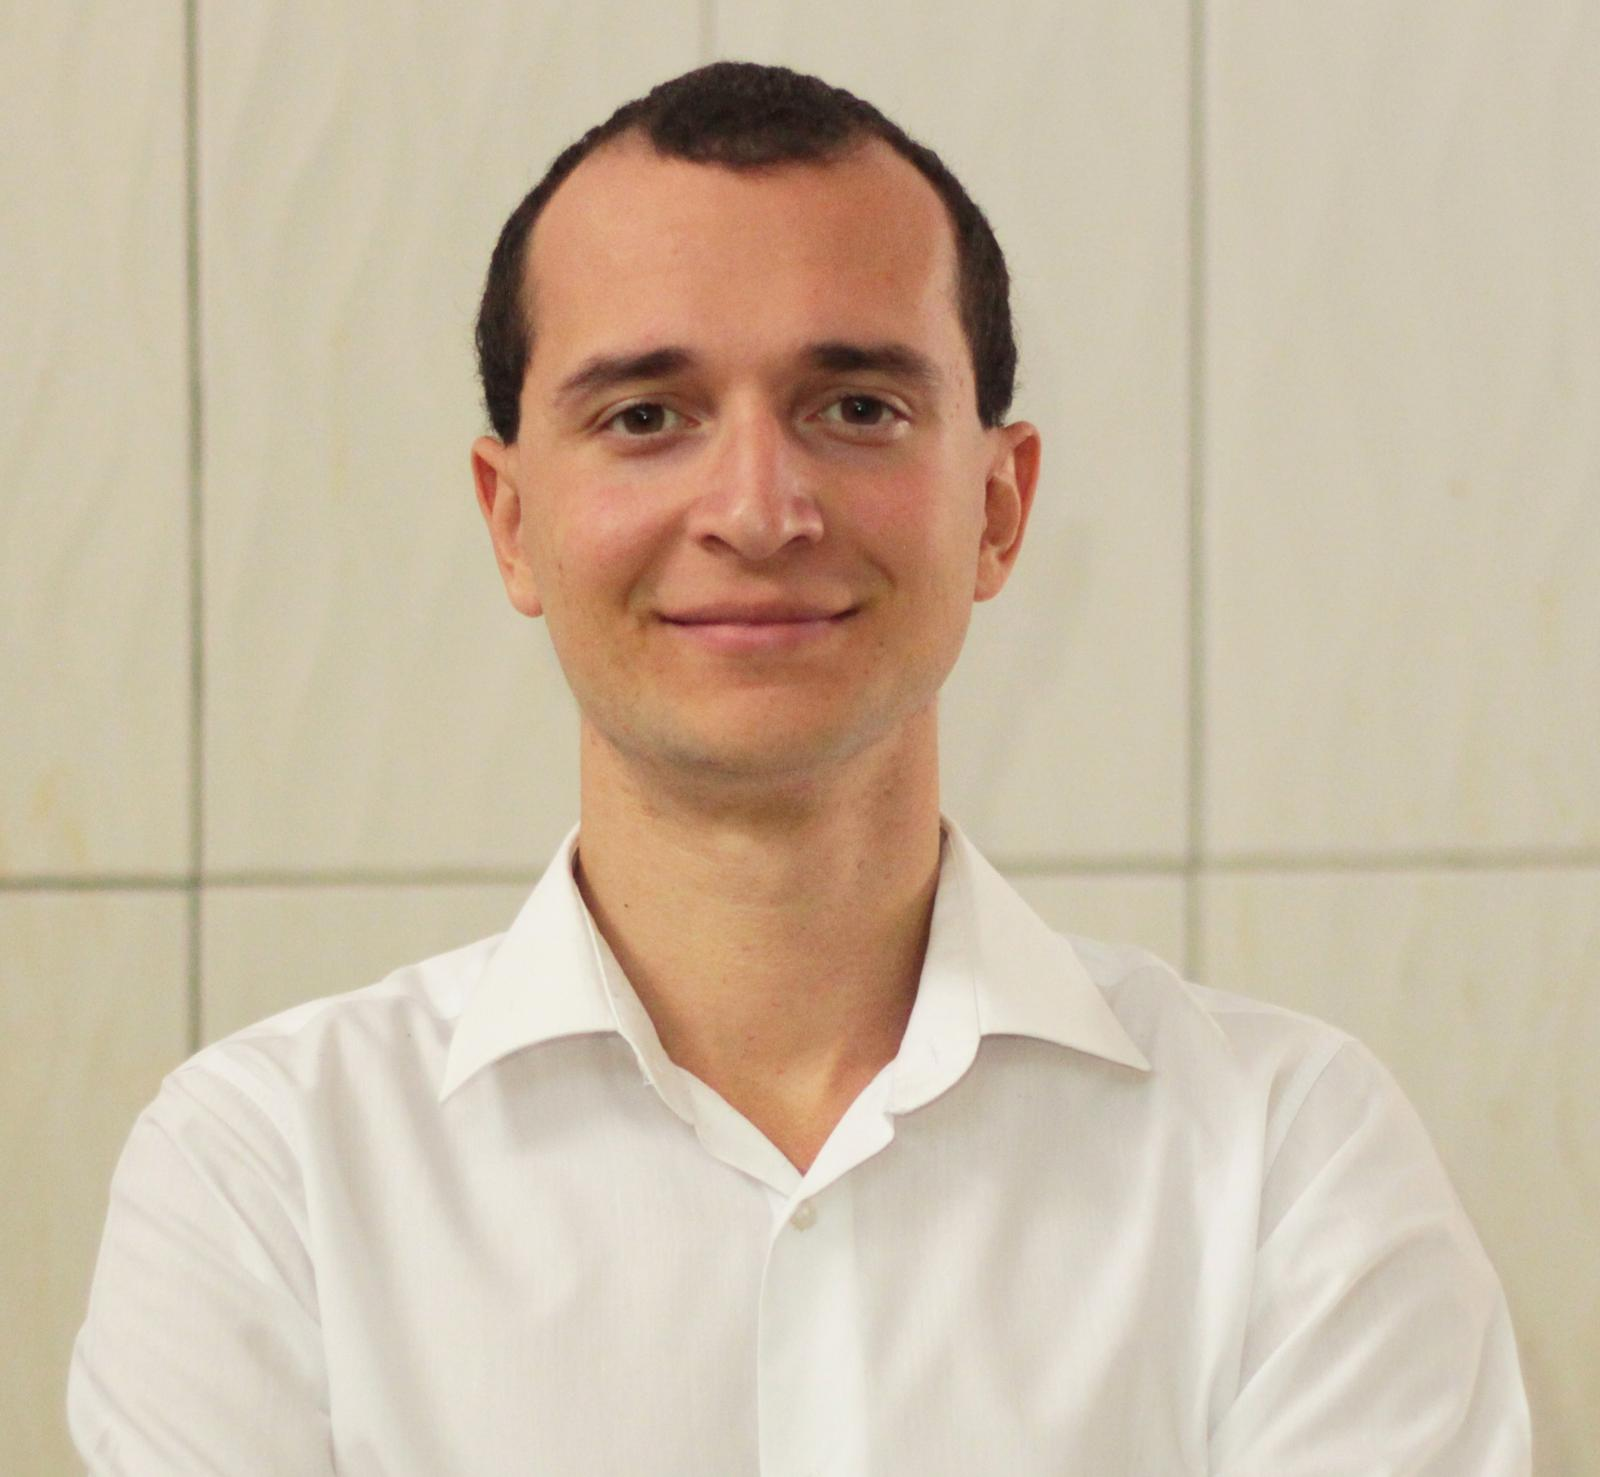
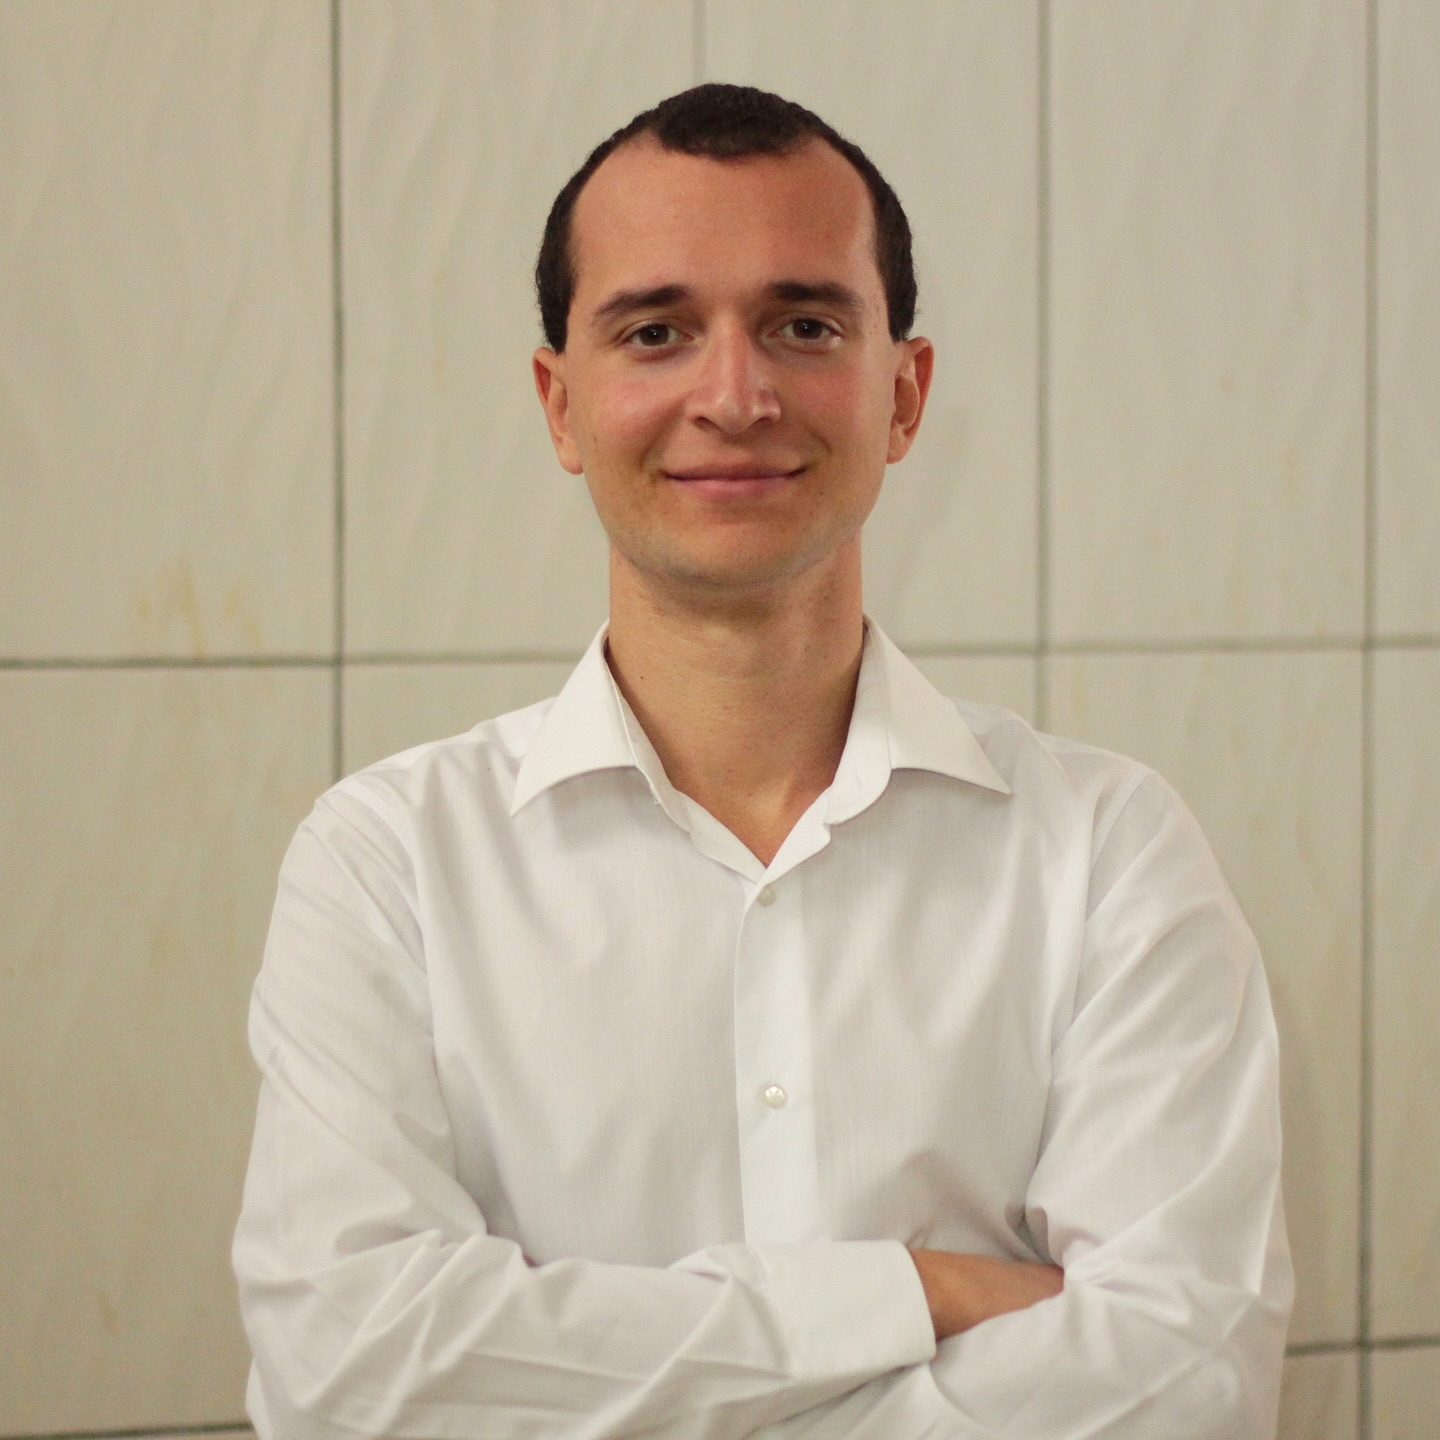
.

diff --git a/Assets/main.js b/Assets/main.js
@@ -2,20 +2,12 @@ async function importResources() {
   //Fetching images
   let imagesMap = [
     {
-      name: "luckyDuck",
-      src: "./Assets/img/luckyDuck.jpg"
-    },
-    {
       name: "morpheusVolga",
       src: "./Assets/img/morpheusVolga.png"
     },
     {
       name: "home",
       src: "./Assets/img/home.png"
-    },
-    {
-      name: "volga11",
-      src: "./Assets/img/volga11.jpg"
     },
     {
       name: "volga1",
@@ -42,8 +34,8 @@ async function importResources() {
       src: "./Assets/img/volga6.jpg"
     },
     {
-      name: "laptopVolga",
-      src: "./Assets/img/laptopVolga.jpg"
+      name: "volga7",
+      src: "./Assets/img/volga7.jpg"
     }
   ]
 
@@ -252,29 +244,28 @@ function getPage(page) {
       content: /*html*/`
       <main class="contact">
         <div class="imgContainer">
-          <img src=${images.volga11.url} alt="">
-          <div class="links">
-            <a href="mailto:volcankay@gmail.com" class="socLink">
-              <img src="./Assets/img/logo/gmail.png" alt="gmail logo">
-            </a>
-            <a href="https://www.instagram.com/volgacankaya/" class="socLink">
-              <img src="./Assets/img/logo/instagram.png" alt="instagram logo">
-            </a>
-            <a href="https://www.youtube.com/@VolgaCanKaya/" class="socLink">
-              <img src="./Assets/img/logo/youtube.png" alt="youtube logo">
-            </a>
-            <a href="https://www.imdb.com/name/nm18108555/" class="socLink">
-              <img src="./Assets/img/logo/imdb.png" alt="imdb logo">
-            </a>
-            <a href="https://www.mandy.com/u/volgacankaya/" class="socLink">
-              <img src="./Assets/img/logo/mandy.avif" alt="mandy logo">
-            </a>
-            <a href="https://fishpond.ie/volgacankaya" class="socLink">
-              <img src="./Assets/img/logo/fishpond.jpg" alt="fishpond logo">
-            </a>
-          </div>
+          <img src=${images.volga1.url} alt="">
         </div>
-        
+        <div class="links">
+          <a href="mailto:volcankay@gmail.com" class="socLink">
+            <img src="./Assets/img/logo/gmail.png" alt="gmail logo">
+          </a>
+          <a href="https://www.instagram.com/volgacankaya/" class="socLink">
+            <img src="./Assets/img/logo/instagram.png" alt="instagram logo">
+          </a>
+          <a href="https://www.youtube.com/@VolgaCanKaya/" class="socLink">
+            <img src="./Assets/img/logo/youtube.png" alt="youtube logo">
+          </a>
+          <a href="https://www.imdb.com/name/nm18108555/" class="socLink">
+            <img src="./Assets/img/logo/imdb.png" alt="imdb logo">
+          </a>
+          <a href="https://www.mandy.com/u/volgacankaya/" class="socLink">
+            <img src="./Assets/img/logo/mandy.avif" alt="mandy logo">
+          </a>
+          <a href="https://fishpond.ie/volgacankaya" class="socLink">
+            <img src="./Assets/img/logo/fishpond.jpg" alt="fishpond logo">
+          </a>
+        </div>
       </main>
     `
     },

diff --git a/Assets/main.css b/Assets/main.css
@@ -233,11 +233,12 @@ body {
       padding: 1vh 2vh;
       transition: box-shadow 250ms;
       margin: 1vh;
-      box-shadow: 0 0 5px -2px #ddd;
+      box-shadow: 0 5px 5px -5px #ddd;
+      border: 1px solid rgba(255, 255, 255, 15%);
     }
 
     >a:hover {
-      box-shadow: 0 2px 5px -4px #ddd;
+      box-shadow: 0 8px 5px -5px #ddd;
     }
   }
 }
@@ -422,56 +423,48 @@ body:has(.software) {
   }
 }
 
-.education,
-.gallery {
-  .card {
-    box-shadow: 0 0px 5px 0px #999;
-  }
-}
-
 .contact {
   height: 50vh;
+  position: relative;
 
   .imgContainer {
     overflow: hidden;
     height: 100%;
-    position: relative;
 
     img {
       object-fit: scale-down;
       max-width: 100%;
     }
-
-    .links {
-      color: #ddd;
-      position: absolute;
-      left: 0;
-      top: 60%;
-      display: flex;
-      justify-content: center;
-      flex-wrap: wrap;
-      width: 100%;
-
-      .socLink {
-        width: 13vw;
-        border-radius: 2vh;
-        padding: 3px;
-        background-color: rgba(0, 0, 0, 55%);
-        margin: 0.5vh;
-        overflow: hidden;
-
-        img {
-          height: 100%;
-          object-fit: contain;
-          border-radius: inherit;
-        }
-      }
-
-      .socLink:hover {
-        transform: scale(1.1);
-      }
-    }
   }
 
+  .links {
+    color: #ddd;
+    position: absolute;
+    left: 0;
+    bottom: 25%;
+    display: flex;
+    justify-content: center;
+    flex-wrap: wrap;
+    width: 100%;
+
+    .socLink {
+      width: 3rem;
+      border-radius: 2vh;
+      padding: 3px;
+      background-color: rgba(0, 0, 0, 55%);
+      margin: 0.5vh;
+      overflow: hidden;
+
+      img {
+        width: 100%;
+        object-fit: contain;
+        border-radius: inherit;
+      }
+    }
+
+    .socLink:hover {
+      transform: scale(1.1);
+    }
+  }
 
 }
